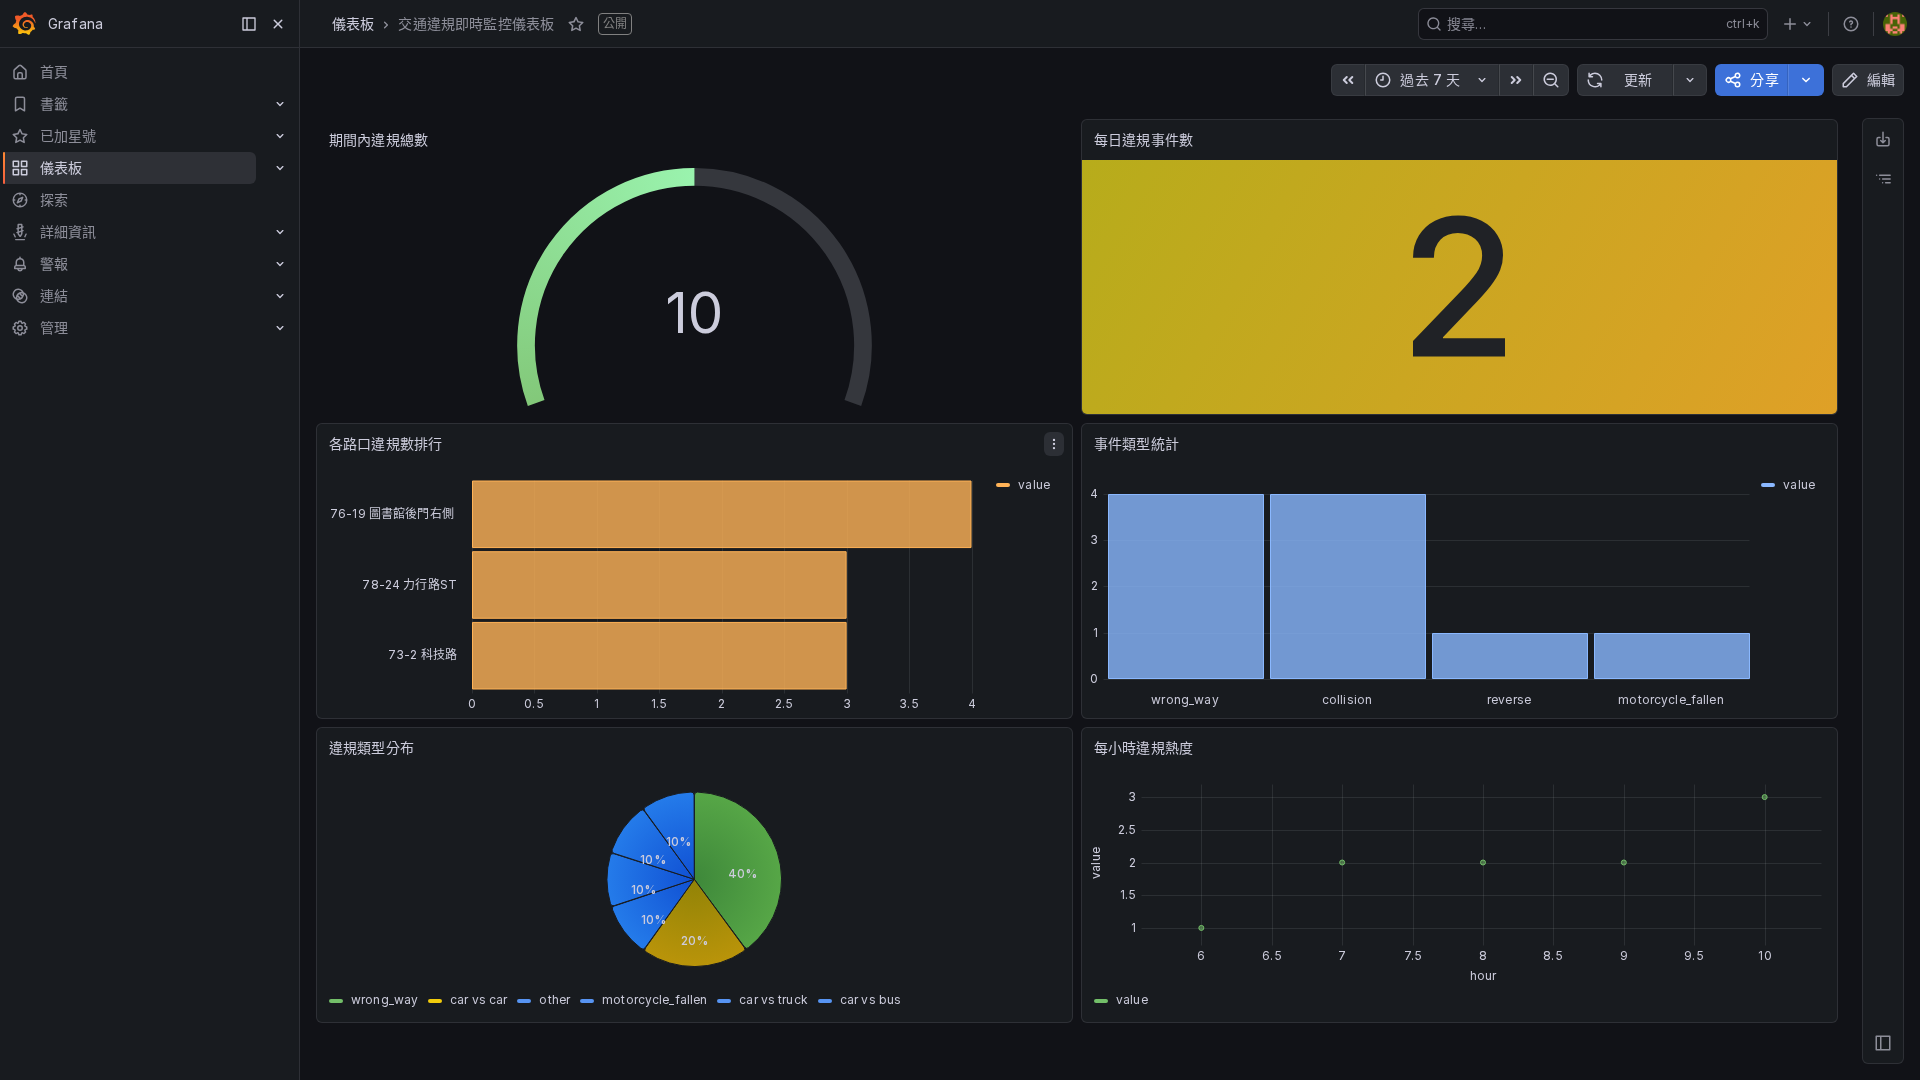
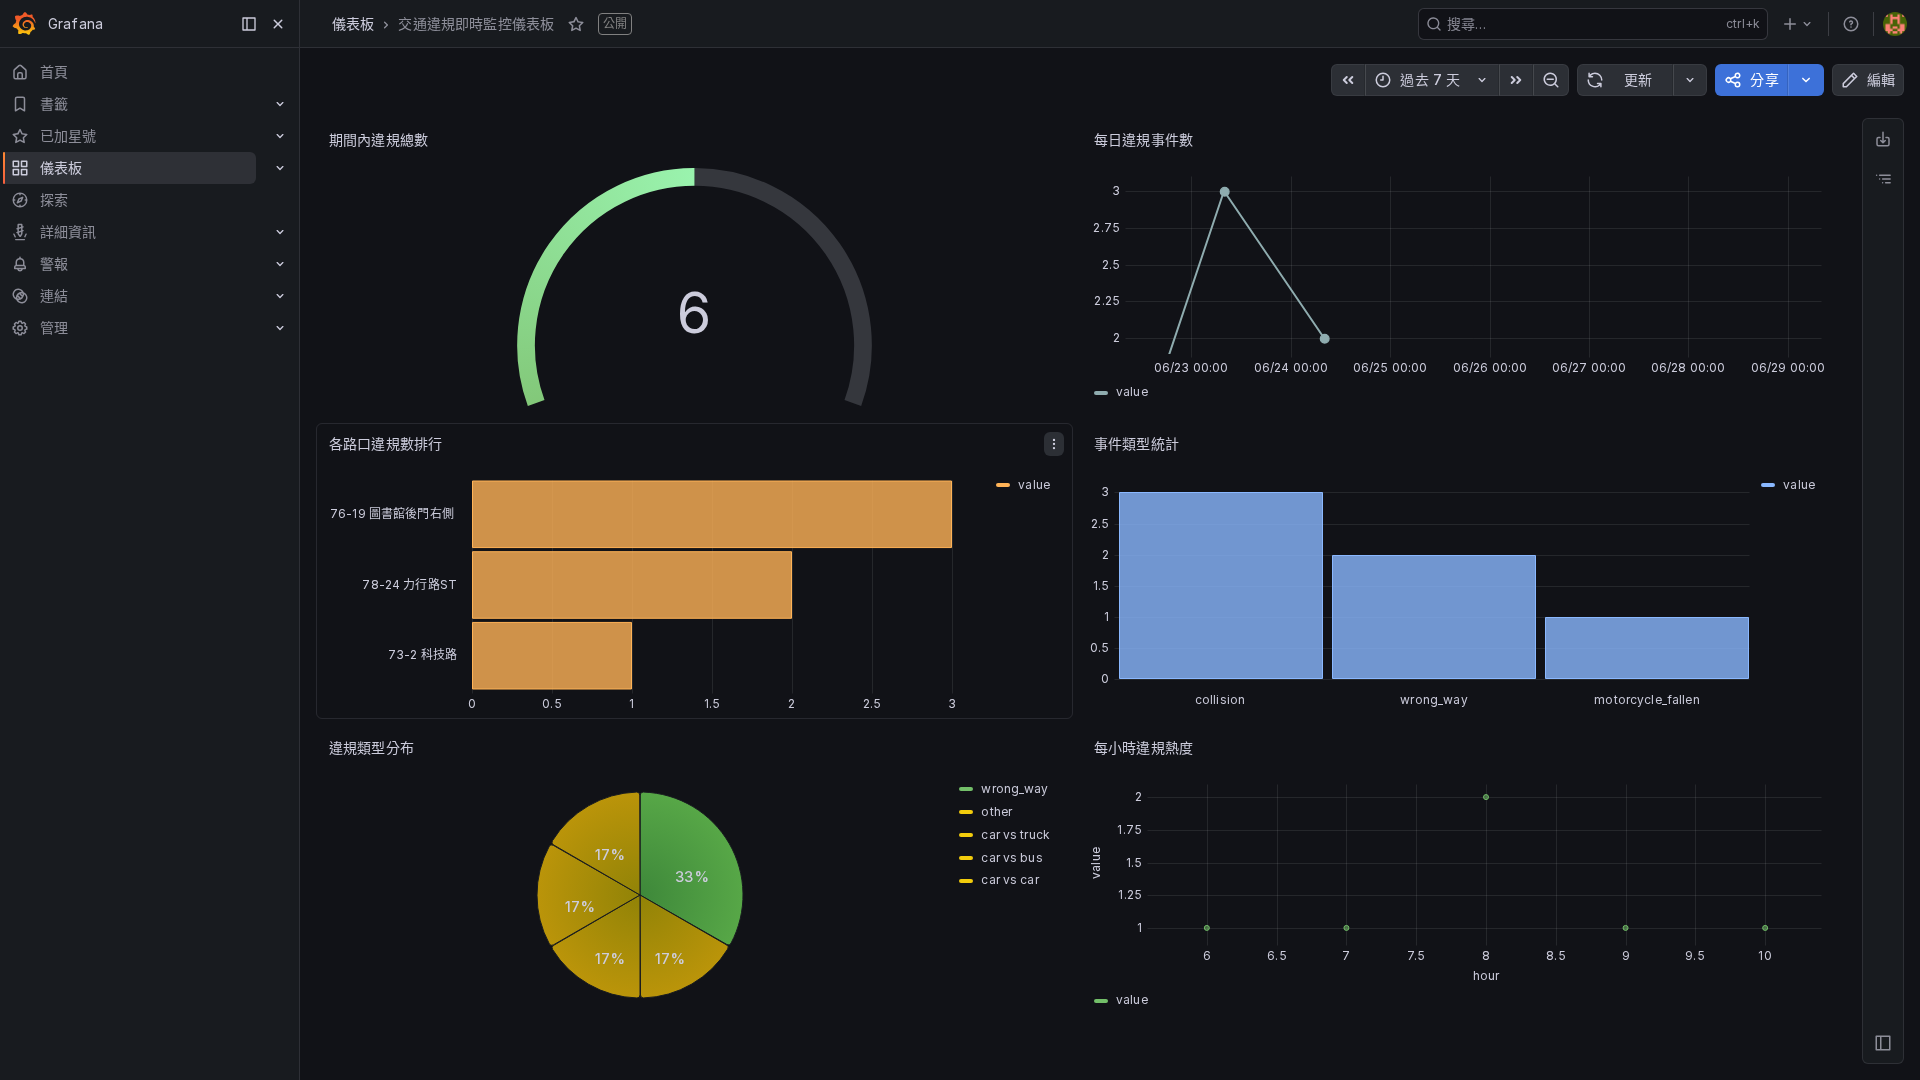
update 6/30
固定每周一早上八點送出報表

diff --git a/bot.py b/bot.py
@@ -25,7 +25,7 @@ import discord
 import json
 import os
 from discord.ext import commands, tasks
-from datetime import datetime, timedelta
+from datetime import datetime, timedelta, time
 import matplotlib.pyplot as plt
 from io import BytesIO
 from services.violations_service import get_weekly_summary, get_weekly_camera_category_counts
@@ -92,10 +92,14 @@ async def capture_grafana_dashboard(output_path="grafana_weekly.png"):
 
     return output_path
 
-@tasks.loop(hours=168)  # 24*7，每 7 天執行一次
+@tasks.loop(time=time(hour=0, minute=0)) #每天早上 08:00 執行一次 (設定時間UTC=台灣時間減8小時)
 async def weekly_report_task():
     await bot.wait_until_ready()
 
+    # 只有星期一才送
+    if datetime.now().weekday() != 0: #星期一是0，二是1，以此類推
+        return
+    
     channel = bot.get_channel(WEEKLY_REPORT_CHANNEL_ID)
     if channel is None:
         print("⚠ 找不到每周報表頻道，請確認 WEEKLY_REPORT_CHANNEL_ID 是否正確")
